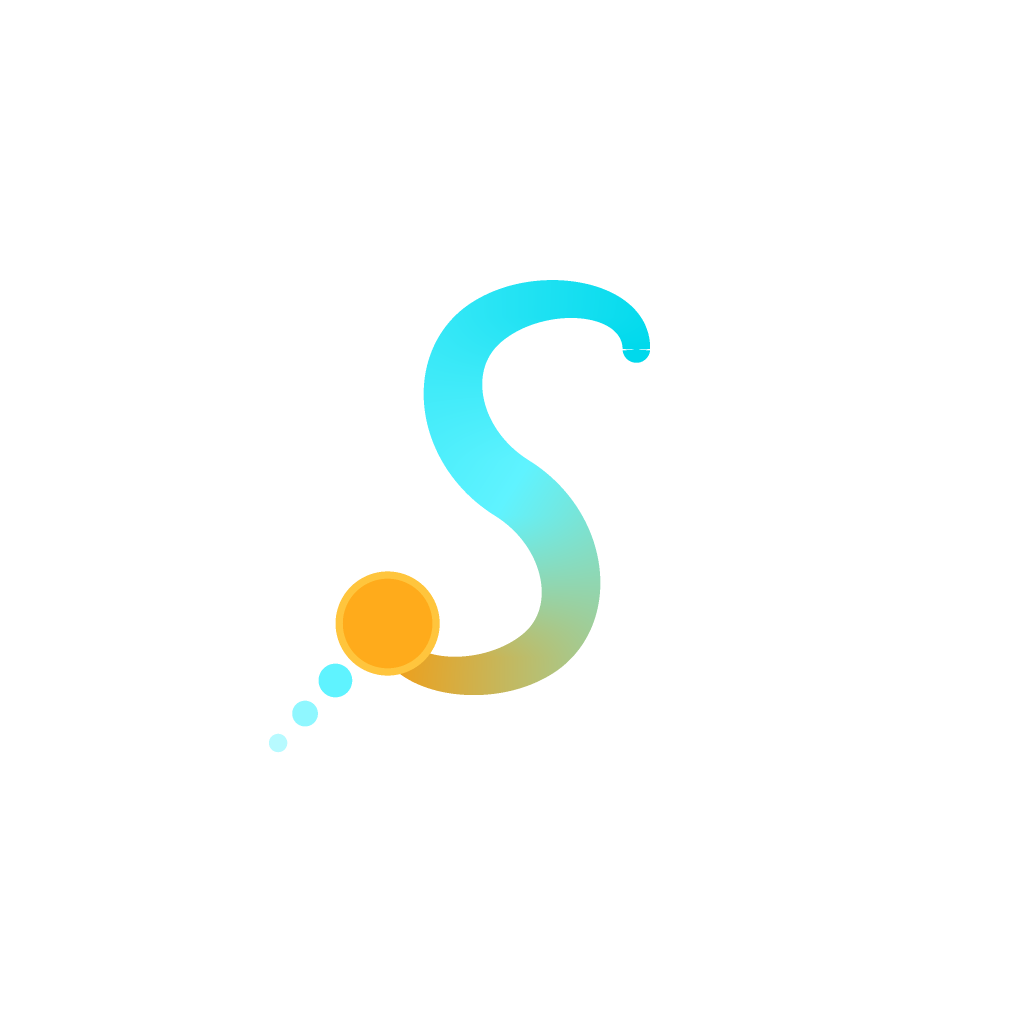
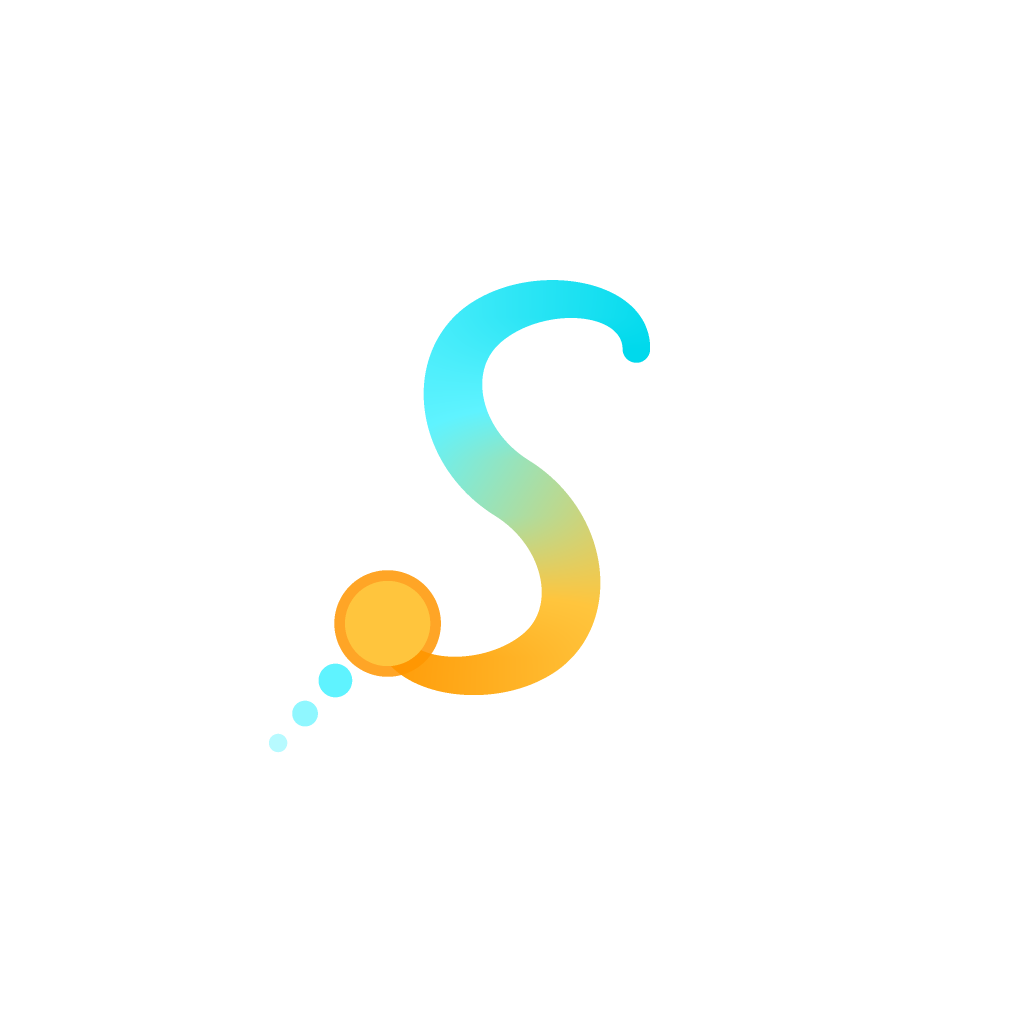
fix(brand): vodotěsný pás, správná barva uzlu a žlutý zastávka v gradientu

Changed region(s): [[0.3125, 0.4062, 0.5938, 0.6875]]

diff --git a/components/brand-mark.tsx b/components/brand-mark.tsx
@@ -28,8 +28,8 @@ const FOREGROUND_SCALE = 0.598338;
 /** Osa gradientu pásu: od začátku tahu (cyan) k jeho konci (oranž). */
 const AXIS = { x1: 719.87, y1: 239.62, x2: 304.13, y2: 698.37 };
 
-/** Koule na konci tahu — nahrávací kapsle. */
-const NODE = { cx: 304.13, cy: 698.37, r: 87.04, ringR: 74.85 };
+/** Koule na konci tahu — nahrávací kapsle: plná žlutá koule v oranžovém prstenci. */
+const NODE = { cx: 304.13, cy: 698.37, r: 89.09, ringR: 71.27 };
 
 /** Tři jiskry za koulí — signál, který už putuje do stroje. */
 const SPARKS = [
@@ -63,6 +63,9 @@ const RIM = { inset: 0.5, opacity: 0.14, width: 1 };
  * GENEROVÁNO z `scripts/brand/geometry.mjs` (1504 vrcholů, přesnost rozvinutí
  * ~0.004 px). Nepiš to ručně a nezkracuj — je to celý znak. Změna geometrie
  * znamená `node scripts/brand/write-svg.mjs` a pak sem vložit nový obsah.
+ *
+ * POZOR: prstenec je vodotěsný — žádná hrana nepřeskočuje kus geometrie,
+ * takže v rastru nevznikne vlasová praska. Kontroluje to `ribbonWatertight()`.
  */
 const RIBBON_D = `  M 742.91 239.62 L 742.91 237.66 L 742.87 235.72 L 742.8 233.79 L 742.69 231.86 L 742.55 229.95 L 742.37 228.04 L 742.15 226.14
   L 741.9 224.26 L 741.61 222.38 L 741.28 220.52 L 740.92 218.67 L 740.52 216.83 L 740.09 215 L 739.62 213.19 L 739.11 211.39
@@ -248,10 +251,10 @@ const RIBBON_D = `  M 742.91 239.62 L 742.91 237.66 L 742.87 235.72 L 742.8 233.
   L 690.8 218.81 L 691.24 219.55 L 691.68 220.29 L 692.09 221.04 L 692.49 221.8 L 692.87 222.56 L 693.24 223.34 L 693.59 224.13
   L 693.93 224.93 L 694.24 225.74 L 694.55 226.57 L 694.83 227.4 L 695.1 228.25 L 695.35 229.11 L 695.58 229.99 L 695.8 230.88
   L 695.99 231.79 L 696.17 232.71 L 696.33 233.64 L 696.47 234.6 L 696.59 235.57 L 696.68 236.55 L 696.76 237.56 L 696.81 238.58
-  L 696.83 239.62 L 742.8 241.87 L 742.47 244.11 L 741.92 246.3 L 741.16 248.43 L 740.19 250.48 L 739.03 252.42 L 737.68 254.23
-  L 736.16 255.91 L 734.49 257.43 L 732.67 258.77 L 730.73 259.94 L 728.69 260.9 L 726.56 261.66 L 724.37 262.21 L 722.13 262.55
-  L 719.87 262.66 L 717.61 262.55 L 715.38 262.21 L 713.18 261.66 L 711.05 260.9 L 709.01 259.94 L 707.07 258.77 L 705.26 257.43
-  L 703.58 255.91 L 702.06 254.23 L 700.71 252.42 L 699.55 250.48 L 698.59 248.43 L 697.82 246.3 L 697.27 244.11 L 696.94 241.87
+  L 696.83 239.62 L 696.94 241.87 L 697.27 244.11 L 697.82 246.3 L 698.59 248.43 L 699.55 250.48 L 700.71 252.42 L 702.06 254.23
+  L 703.58 255.91 L 705.26 257.43 L 707.07 258.77 L 709.01 259.94 L 711.05 260.9 L 713.18 261.66 L 715.38 262.21 L 717.61 262.55
+  L 719.87 262.66 L 722.13 262.55 L 724.37 262.21 L 726.56 261.66 L 728.69 260.9 L 730.73 259.94 L 732.67 258.77 L 734.49 257.43
+  L 736.16 255.91 L 737.68 254.23 L 739.03 252.42 L 740.19 250.48 L 741.16 248.43 L 741.92 246.3 L 742.47 244.11 L 742.8 241.87
   Z`;
 
 export interface BrandMarkProps {
@@ -309,7 +312,8 @@ export function BrandMark({ size = 48, variant = "badge" }: BrandMarkProps) {
 
         <LinearGradient id={ribbonId} gradientUnits="userSpaceOnUse" x1={AXIS.x1} y1={AXIS.y1} x2={AXIS.x2} y2={AXIS.y2}>
           <Stop offset="0" stopColor={COLORS.primary} />
-          <Stop offset="0.5" stopColor={COLORS.primaryVibrant} />
+          <Stop offset="0.38" stopColor={COLORS.primaryVibrant} />
+          <Stop offset="0.68" stopColor={COLORS.accentWarm} />
           <Stop offset="1" stopColor={COLORS.secondary} />
         </LinearGradient>
 
@@ -355,14 +359,15 @@ export function BrandMark({ size = 48, variant = "badge" }: BrandMarkProps) {
 
       <G scale={scale} originX={CANVAS / 2} originY={CANVAS / 2}>
         <Path d={RIBBON_D} fill={ink ?? `url(#${ribbonId})`} />
-        <Circle cx={NODE.cx} cy={NODE.cy} r={NODE.r} fill={ink ?? COLORS.accentWarm} />
+        {/* Prstenec dole, plná koule na něm — prstenec obklopuje plný kotouč. */}
         <Circle
           cx={NODE.cx}
           cy={NODE.cy}
-          r={NODE.ringR}
+          r={NODE.r}
           fill={ink ?? COLORS.secondary}
-          fillOpacity={monochrome ? 1 : 0.55}
+          fillOpacity={monochrome ? 1 : 0.85}
         />
+        <Circle cx={NODE.cx} cy={NODE.cy} r={NODE.ringR} fill={ink ?? COLORS.accentWarm} />
         {SPARKS.map((spark) => (
           <Circle
             key={`${spark.cx}-${spark.cy}`}
